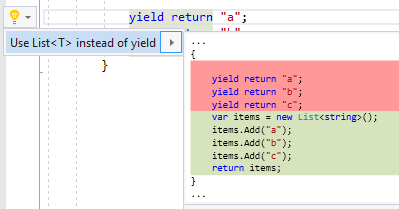
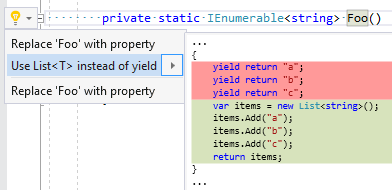
Refactor refactoring UseListInsteadOfYield (RR0183).

Changed region(s): [[0.0, 0.0, 1.0, 1.0]]

diff --git a/source/Refactorings/Refactorings/UseListInsteadOfYieldRefactoring.cs b/source/Refactorings/Refactorings/UseListInsteadOfYieldRefactoring.cs
@@ -1,6 +1,7 @@
 // Copyright (c) Josef Pihrt. All rights reserved. Licensed under the Apache License, Version 2.0. See License.txt in the project root for license information.
 
 using System.Diagnostics;
+using System.Linq;
 using System.Threading;
 using System.Threading.Tasks;
 using Microsoft.CodeAnalysis;
@@ -14,46 +15,49 @@ namespace Roslynator.CSharp.Refactorings
 {
     internal static class UseListInsteadOfYieldRefactoring
     {
-        public static void ComputeRefactoring(RefactoringContext context, YieldStatementSyntax yieldStatement, SemanticModel semanticModel)
+        public static void ComputeRefactoring(RefactoringContext context, MethodDeclarationSyntax methodDeclaration, SemanticModel semanticModel)
         {
-            ExpressionSyntax expression = yieldStatement.Expression;
-            if (expression != null)
-            {
-                ITypeSymbol typeSymbol = semanticModel.GetTypeSymbol(expression, context.CancellationToken);
+            ComputeRefactoring(context, methodDeclaration, methodDeclaration.Body, semanticModel);
+        }
 
-                if (typeSymbol?.IsErrorType() == false
-                    && !typeSymbol.IsVoid())
+        private static void ComputeRefactoring(
+            RefactoringContext context,
+            SyntaxNode node,
+            BlockSyntax body,
+            SemanticModel semanticModel)
+        {
+            if (body?
+                .DescendantNodes(body.Span, f => !f.IsNestedMethod())
+                .Any(f => f.IsKind(SyntaxKind.YieldReturnStatement)) == true)
+            {
+                var symbol = (IMethodSymbol)semanticModel.GetDeclaredSymbol(node, context.CancellationToken);
+
+                if (symbol?.IsErrorType() == false)
                 {
-                    BlockSyntax block = GetContainigBlock(yieldStatement);
-                    if (block != null)
+                    ITypeSymbol type = GetElementType(symbol.ReturnType, semanticModel);
+
+                    if (type?.IsErrorType() == false)
                     {
                         context.RegisterRefactoring(
                             "Use List<T> instead of yield",
-                            cancellationToken => RefactorAsync(context.Document, yieldStatement, block, block.Statements, cancellationToken));
+                            cancellationToken => RefactorAsync(context.Document, type, body, body.Statements, cancellationToken));
                     }
                 }
             }
         }
 
-        private static BlockSyntax GetContainigBlock(YieldStatementSyntax yieldStatement)
+        private static ITypeSymbol GetElementType(ITypeSymbol returnType, SemanticModel semanticModel)
         {
-            SyntaxNode current = yieldStatement.Parent;
-
-            while (current != null)
+            if (returnType.IsIEnumerable())
             {
-                switch (current.Kind())
-                {
-                    case SyntaxKind.MethodDeclaration:
-                        return ((MethodDeclarationSyntax)current).Body;
-                    case SyntaxKind.GetAccessorDeclaration:
-                        return ((AccessorDeclarationSyntax)current).Body;
-                    case SyntaxKind.SimpleLambdaExpression:
-                    case SyntaxKind.ParenthesizedLambdaExpression:
-                    case SyntaxKind.AnonymousMethodExpression:
-                        return null;
-                }
+                return semanticModel.Compilation.ObjectType;
+            }
+            else if (returnType.IsNamedType())
+            {
+                var namedType = (INamedTypeSymbol)returnType;
 
-                current = current.Parent;
+                if (namedType.ConstructedFrom.SpecialType == SpecialType.System_Collections_Generic_IEnumerable_T)
+                    return namedType.TypeArguments[0];
             }
 
             return null;
@@ -61,7 +65,7 @@ namespace Roslynator.CSharp.Refactorings
 
         private static async Task<Document> RefactorAsync(
             Document document,
-            YieldStatementSyntax yieldStatement,
+            ITypeSymbol typeSymbol,
             BlockSyntax block,
             SyntaxList<StatementSyntax> statements,
             CancellationToken cancellationToken)
@@ -73,8 +77,6 @@ namespace Roslynator.CSharp.Refactorings
             string name = NameGenerator.Default.EnsureUniqueLocalName("items", semanticModel, position);
 
             IdentifierNameSyntax identifierName = IdentifierName(name);
-
-            ITypeSymbol typeSymbol = semanticModel.GetTypeSymbol(yieldStatement.Expression, cancellationToken);
 
             TypeSyntax listType = semanticModel
                 .GetTypeByMetadataName(MetadataNames.System_Collections_Generic_List_T)

diff --git a/source/Refactorings/Refactorings/MethodDeclarationRefactoring.cs b/source/Refactorings/Refactorings/MethodDeclarationRefactoring.cs
@@ -64,6 +64,14 @@ namespace Roslynator.CSharp.Refactorings
 
             if (context.IsRefactoringEnabled(RefactoringIdentifiers.RenameMethodAccordingToTypeName))
                 await RenameMethodAccoringToTypeNameAsync(context, methodDeclaration).ConfigureAwait(false);
+
+            if (context.IsRefactoringEnabled(RefactoringIdentifiers.UseListInsteadOfYield)
+                && methodDeclaration.Identifier.Span.Contains(context.Span))
+            {
+                SemanticModel semanticModel = await context.GetSemanticModelAsync().ConfigureAwait(false);
+
+                UseListInsteadOfYieldRefactoring.ComputeRefactoring(context, methodDeclaration, semanticModel);
+            }
         }
 
         private static async Task RenameMethodAccoringToTypeNameAsync(

diff --git a/source/Refactorings/Refactorings/YieldStatementRefactoring.cs b/source/Refactorings/Refactorings/YieldStatementRefactoring.cs
@@ -100,13 +100,6 @@ namespace Roslynator.CSharp.Refactorings
                 var refactoring = new ReplaceYieldStatementWithIfStatementRefactoring();
                 await refactoring.ComputeRefactoringAsync(context, yieldStatement).ConfigureAwait(false);
             }
-
-            if (context.IsRefactoringEnabled(RefactoringIdentifiers.UseListInsteadOfYield))
-            {
-                SemanticModel semanticModel = await context.GetSemanticModelAsync().ConfigureAwait(false);
-
-                UseListInsteadOfYieldRefactoring.ComputeRefactoring(context, yieldStatement, semanticModel);
-            }
         }
     }
 }
